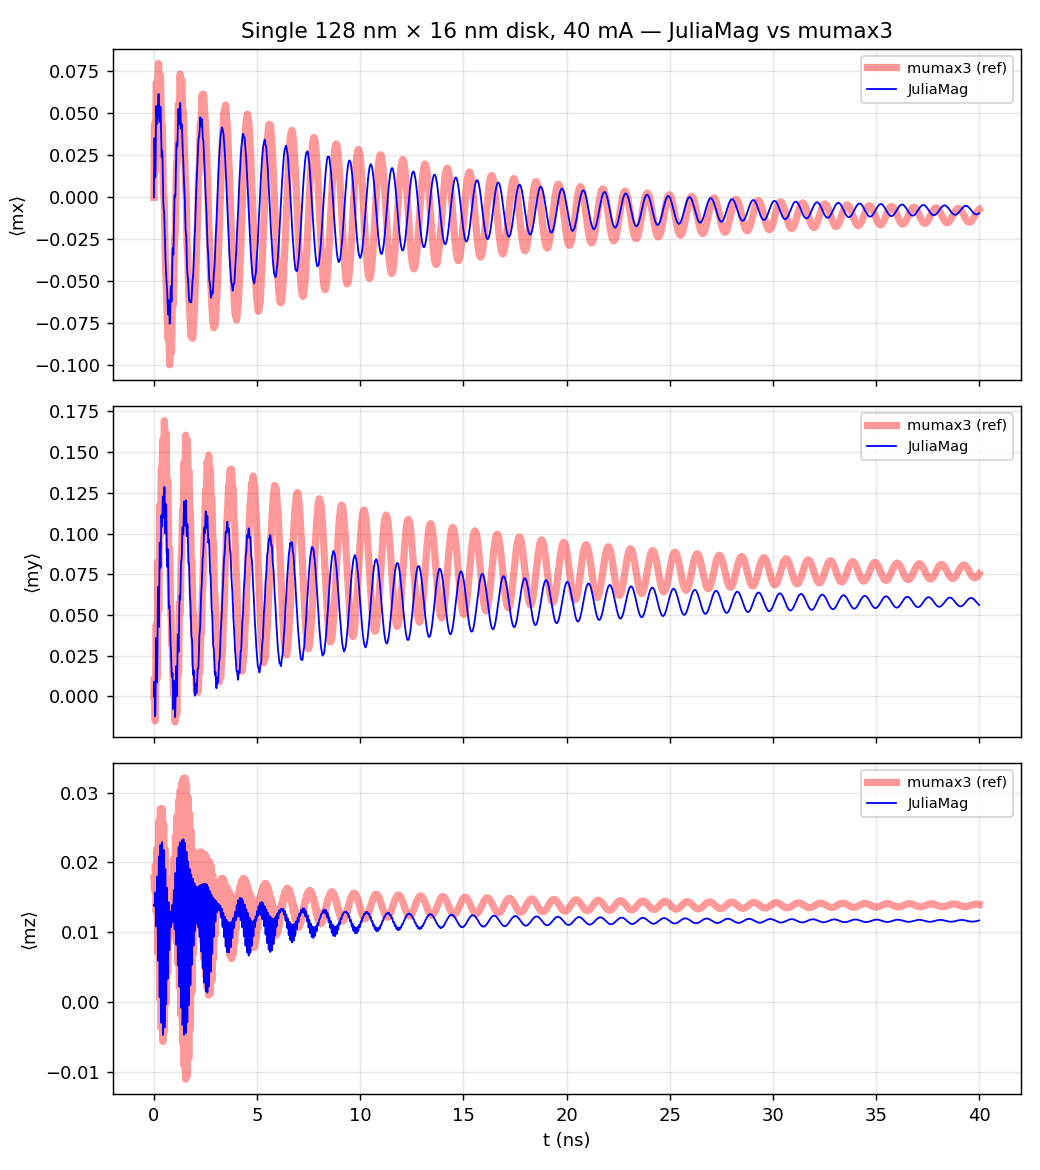
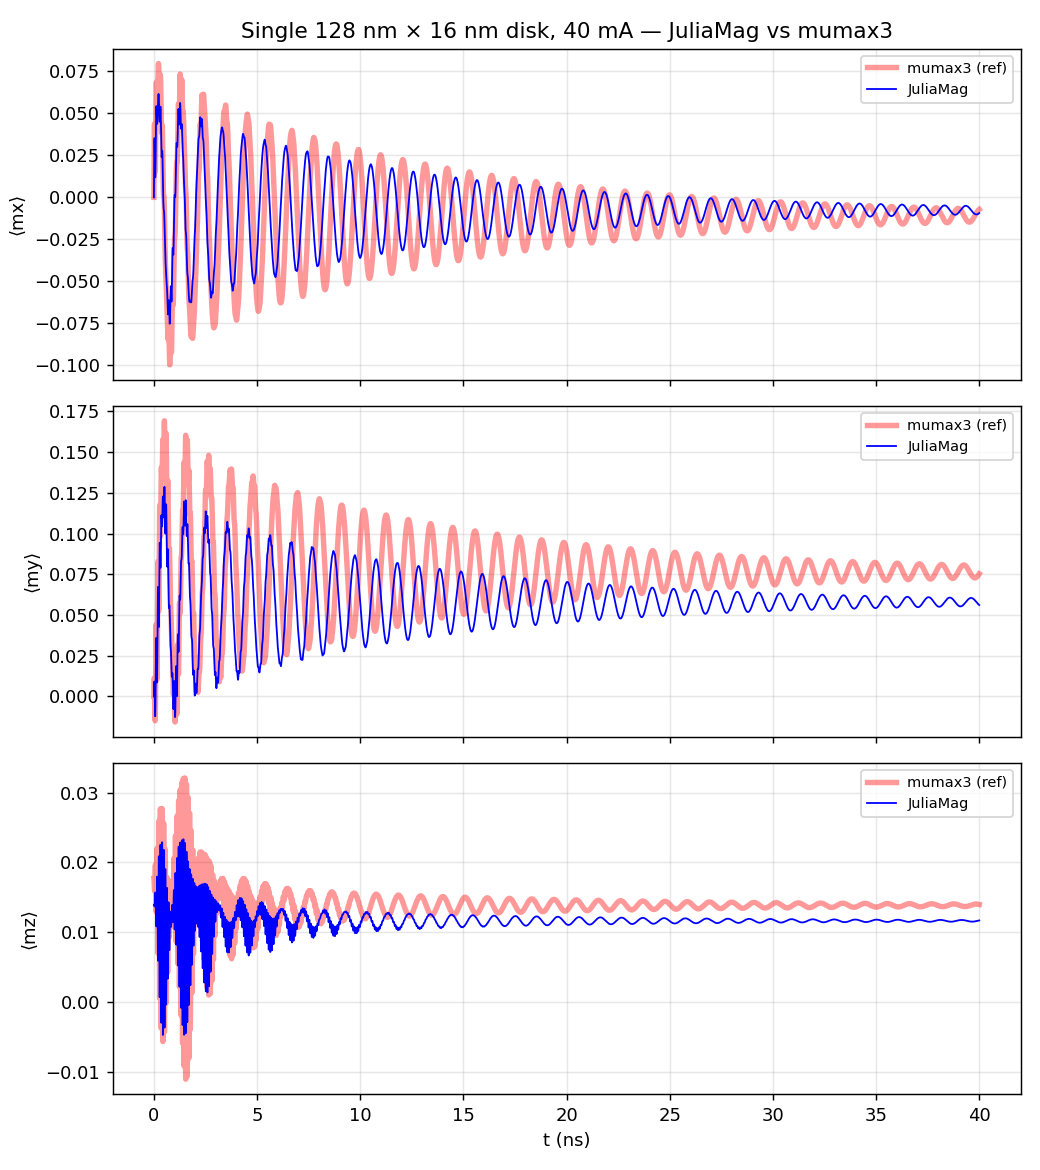
Thin the mumax3 reference line to lw=3 in the disk comparison plot

diff --git a/examples/plot_disk_compare.py b/examples/plot_disk_compare.py
@@ -13,7 +13,7 @@ comps = [("mx",1),("my",2),("mz",3)]
 
 fig, axes = plt.subplots(3,1, figsize=(8,9), sharex=True)
 for ax,(name,c) in zip(axes,comps):
-    ax.plot(tM, M[:,c], lw=4, alpha=0.4, color="red",  label="mumax3 (ref)")
+    ax.plot(tM, M[:,c], lw=3, alpha=0.4, color="red",  label="mumax3 (ref)")
     ax.plot(tJ, J[:,c], lw=1,            color="blue", label="JuliaMag")
     ax.set_ylabel(f"⟨{name}⟩"); ax.grid(alpha=0.3); ax.legend(loc="best", fontsize=8)
 axes[-1].set_xlabel("t (ns)")
